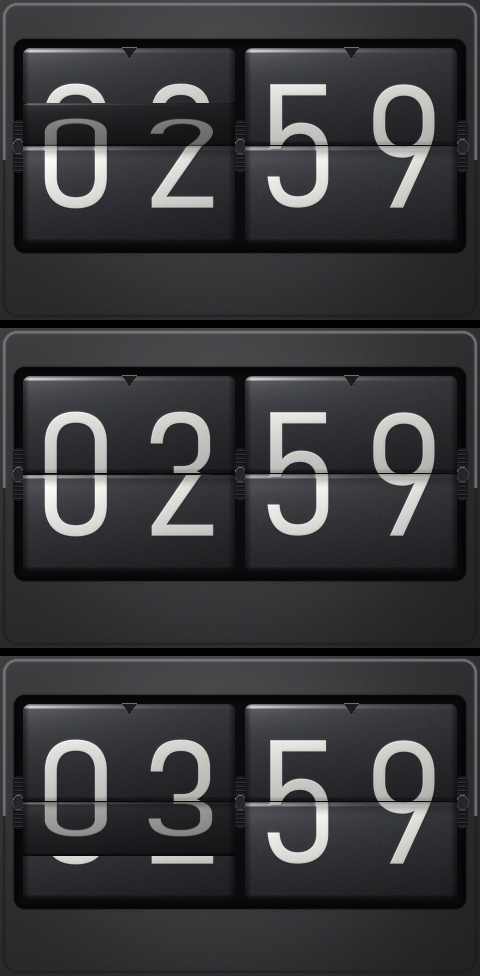
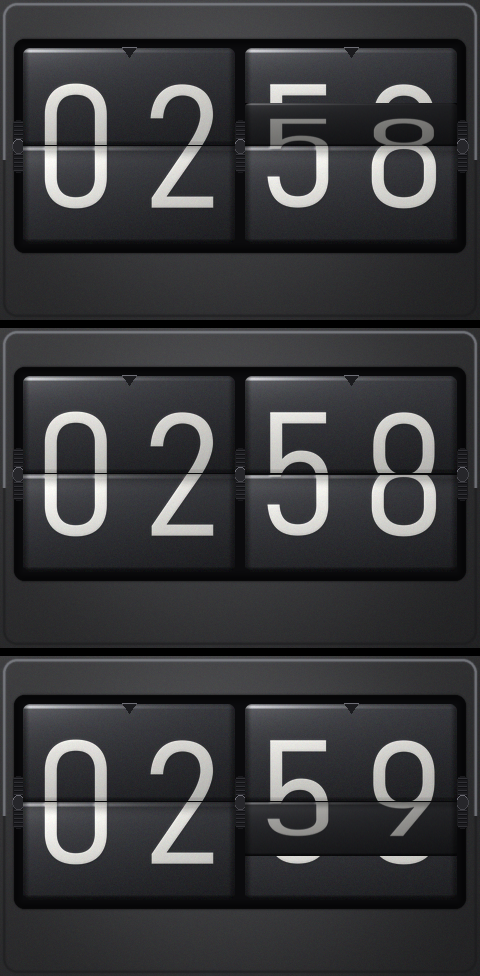
El preview del volteo ahora cambia los minutos, no la hora
La tira mostraba 02:59 -> 03:59, un volteo que solo ocurre una vez por hora y
que no representa lo que hace el reloj el resto del tiempo. Ahora es
02:58 -> 02:59, con la tarjeta de las horas quieta.

compose_mid_flip() estaba cableada a la columna 0; se generaliza con un
parametro idx para poder animar cualquiera de las dos tarjetas, pasando el
indice tambien a card_image() para que la iluminacion global de la columna
siga siendo la correcta.

diff --git a/tools/gen_assets.py b/tools/gen_assets.py
@@ -454,12 +454,18 @@ def compose_scene(hh, mm, date_text="SAB 22 AGO"):
     return scene
 
 
-def compose_mid_flip(hh_old, hh_new, mm, t):
-    """Fotograma simulado del volteo de la tarjeta de horas, t en 0..1."""
+def compose_mid_flip(old_val, new_val, still_val, t, idx=1):
+    """Fotograma simulado de un volteo, t en 0..1.
+
+    idx es la tarjeta que vuela: 1 = minutos (el caso normal, una vez por
+    minuto), 0 = horas. La otra tarjeta se dibuja quieta con still_val.
+    """
     scene = render_case()
-    old, new = card_image(hh_old, 0), card_image(hh_new, 0)
+    old, new = card_image(old_val, idx), card_image(new_val, idx)
     W, H, half = GEOM["CARD_W"], GEOM["CARD_H"], GEOM["HALF_H"]
-    x, y = GEOM["WIN_X"], GEOM["WIN_Y"]
+    y = GEOM["WIN_Y"]
+    x = GEOM["WIN_X"] + idx * (W + GEOM["GAP"])
+    x_still = GEOM["WIN_X"] + (1 - idx) * (W + GEOM["GAP"])
 
     scene.paste(new.crop((0, 0, W, half)), (x, y))          # fondo: mitad alta nueva
     scene.paste(old.crop((0, half, W, H)), (x, y + half))   # fondo: mitad baja vieja
@@ -477,7 +483,7 @@ def compose_mid_flip(hh_old, hh_new, mm, t):
     leaf = Image.blend(leaf, Image.new("RGB", leaf.size, (0, 0, 0)), shade_amt / 255.0)
     scene.paste(leaf, (x, y + half - lh) if t < 0.5 else (x, y + half))
 
-    scene.paste(card_image(mm, 1), (x + W + GEOM["GAP"], y))
+    scene.paste(card_image(still_val, 1 - idx), (x_still, y))
     draw_hooks(scene)
     return scene
 
@@ -505,7 +511,8 @@ def do_preview():
     scene.resize((GEOM["SCR_W"] * 2, GEOM["SCR_H"] * 2), Image.LANCZOS) \
          .save(os.path.join(PREVIEW_DIR, "scene_2x.png"))
 
-    frames = [compose_mid_flip(2, 3, 59, t) for t in (0.28, 0.5, 0.78)]
+    # el volteo de cada minuto: 02:58 -> 02:59, con la hora quieta
+    frames = [compose_mid_flip(58, 59, 2, t, idx=1) for t in (0.28, 0.5, 0.78)]
     sheet = Image.new("RGB", (GEOM["SCR_W"], GEOM["SCR_H"] * 3 + 16), (0, 0, 0))
     for i, fr in enumerate(frames):
         sheet.paste(fr, (0, i * (GEOM["SCR_H"] + 8)))

diff --git a/README.md b/README.md
@@ -97,10 +97,11 @@ tinte amarillo/magenta en pantalla, es exactamente este desajuste.
 
 ## Cómo funciona el volteo
 
-<img src="docs/flip.png" alt="Tres instantes de un volteo" width="320">
+<img src="docs/flip.png" alt="Tres instantes del volteo de los minutos" width="320">
 
-*Tres instantes del volteo: la hoja alta plegándose, el reposo y la hoja baja
-aterrizando sobre el valor nuevo.*
+*Tres instantes del volteo de los minutos, 02:58 → 02:59: la hoja alta
+plegándose, el reposo y la hoja baja aterrizando sobre el valor nuevo. La
+tarjeta de las horas no se mueve.*
 
 En `flip_card.c`, **sin guardar un solo fotograma de animación**:
 
